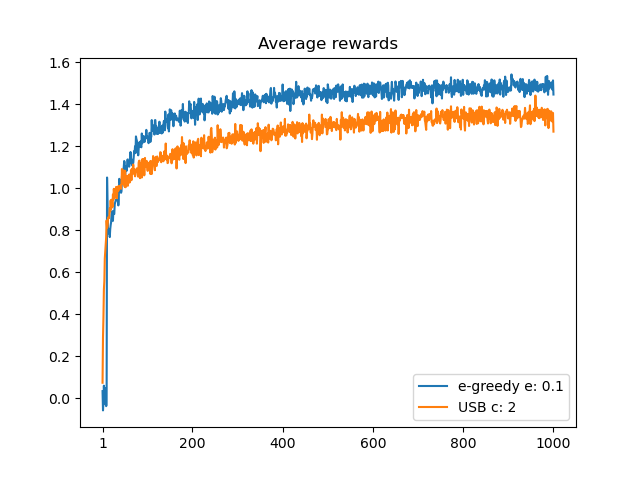
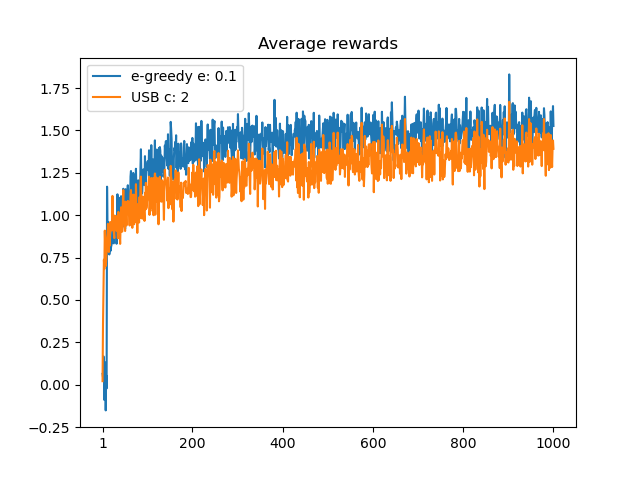
Add figure_2.6_bandit_param_study.py

diff --git a/algos/gradient_bandit.py b/algos/gradient_bandit.py
@@ -1,0 +1,70 @@
+"""
+Page 37. Not using baselines or using too big alpha results in a crash,
+so we have to use "self.H - np.max(self.H)" instead of "self.H" in GradientBandit.softmax().
+The explanation is here: https://www.datahubbs.com/multi-armed-bandits-reinforcement-learning-2/
+in (Softmax Nuance).
+"""
+
+import numpy as np
+
+
+class GradientBandit:
+    def __init__(self, env, alpha=0.1):
+        self.env = env
+        self.alpha = alpha
+        self.H = np.zeros(len(env.action_space))
+        self.softmax()
+
+    def softmax(self):
+        # Here, we had to use "self.H - np.max(self.H)" instead of "self.H" because otherwise we get crashes when
+        # not using baselines of having too big alpha.
+        self.pi = np.exp(self.H - np.max(self.H)) / np.sum(np.exp(self.H - np.max(self.H)))
+
+    def act(self, step):
+        # Choosing randomly according to a prob distro
+        return np.random.choice(self.env.action_space, p=self.pi)
+
+    def learn(self, **kwargs):
+        action = kwargs['action']
+        reward = kwargs['reward']
+        avg_ep_reward = kwargs['avg_ep_reward']
+        self.H[action] += self.alpha * (reward - avg_ep_reward) * self.pi[action]
+        for a in self.env.action_space:
+            if a != action:
+                self.H[a] -= self.alpha * (reward - avg_ep_reward) * (1 - self.pi[a])
+        self.softmax()
+
+
+def exe():
+    from matplotlib import pyplot as plt
+
+    from envs.k_armed_bandit_env import KArmedBanditEnv
+
+    EPISODES = 2000
+    STEPS = 1000
+
+    avg_rewards = np.zeros(STEPS)
+    env = KArmedBanditEnv()
+    for episode in range(1, EPISODES+1):
+        agent = GradientBandit(env, 4)
+        rewards = []
+        avg_ep_reward = 0
+        for step in range(1, STEPS+1):
+            action = agent.act(step)
+            reward = env.step(action)
+            avg_ep_reward += (reward - avg_ep_reward) / step
+            agent.learn(action=action, reward=reward, avg_ep_reward=avg_ep_reward)
+            rewards.append(reward)
+        for i in range(STEPS):
+            avg_rewards[i] += (rewards[i] - avg_rewards[i]) / episode
+
+        env.reset()
+    plt.plot(avg_rewards)
+    plt.xlabel('Steps')
+    plt.ylabel(f'Average rewards per {EPISODES} episodes')
+    # plt.savefig('gradient_bandit.png')
+    plt.show()
+
+
+if __name__ == '__main__':
+    exe()

diff --git a/figures/figure_2.6_bandit_param_study.py b/figures/figure_2.6_bandit_param_study.py
@@ -1,0 +1,60 @@
+""" Page 42. """
+
+from multiprocessing import Pool
+from matplotlib import pyplot as plt
+
+from envs.k_armed_bandit_env import KArmedBanditEnv
+from algos.epsilon_bandit import EpsilonBandit
+from algos.optimistic_bandit import OptimisticBandit
+from algos.UCB_bandit import UCBBandit
+from algos.gradient_bandit import GradientBandit
+
+
+STEPS = 1000
+EPISODES = 200
+TICKS = (1/128, 1/64, 1/32, 1/16, 1/8, 1/4, 1/2, 1, 2, 4)
+EPSILON_BANDIT_PARAMS = (1/128, 1/64, 1/32, 1/16, 1/8, 1/4)
+EPSILON_BANDIT = (EpsilonBandit, EPSILON_BANDIT_PARAMS)
+OPTIMISTIC_PARAMS = (1/4, 1/2, 1, 2, 4)
+OPTIMISTIC = (OptimisticBandit, OPTIMISTIC_PARAMS)
+UCB_PARAMS = (1/16, 1/8, 1/4, 1/2, 1, 2, 4)
+UCB = (UCBBandit, UCB_PARAMS)
+GRADIENT_PARAMS = (1/32, 1/16, 1/8, 1/4, 1/2, 1, 2, 4)
+GRADIENT = (GradientBandit, GRADIENT_PARAMS)
+INPUT = [EPSILON_BANDIT, OPTIMISTIC, UCB, GRADIENT]
+
+
+def exe(input):
+    agent_class, params = input
+    avg_rewards = []
+    for param in params:
+        avg_reward = 0
+        for episode in range(1, EPISODES+1):
+            env = KArmedBanditEnv()
+            agent = agent_class(env, param)
+            avg_ep_reward = 0
+            for step in range(1, STEPS+1):
+                action = agent.act(step)
+                reward = env.step(action)
+                avg_ep_reward += (reward - avg_ep_reward) / step
+                agent.learn(action=action, reward=reward, avg_ep_reward=avg_ep_reward)
+            avg_reward += (avg_ep_reward - avg_reward) / episode
+        avg_rewards.append(avg_reward)
+        print(f'{agent_class} param: {param} done')
+    return avg_rewards
+
+
+with Pool() as pool:
+    avg_rewards = pool.map(exe, INPUT)
+    plt.plot(EPSILON_BANDIT_PARAMS, avg_rewards[0], label='epsilon bandit: epsilon')
+    plt.plot(OPTIMISTIC_PARAMS, avg_rewards[1], label='optimistic: initial')
+    plt.plot(UCB_PARAMS, avg_rewards[2], label='UCB: c')
+    plt.plot(GRADIENT_PARAMS, avg_rewards[3], label='gradient: alpha')
+    plt.xscale("log")
+    plt.legend()
+    plt.title('Bandit algorithms parameter study')
+    plt.ylabel(f'Average reward over {STEPS} steps')
+    plt.xticks(TICKS, ('1/128', '1/64', '1/32', '1/16', '1/8', '1/4', '1/2', '1', '2', '4'))
+    plt.savefig('figure_2.6_bandit_param_study.png')
+    plt.show()
+    # plt.show()

diff --git a/algos/optimistic_bandit.py b/algos/optimistic_bandit.py
@@ -6,15 +6,13 @@ import math
 
 
 class OptimisticBandit:
-    def __init__(self, env=None, epsilon=0.1, initial=0, alpha=0.1):
+    def __init__(self, env=None, initial=5, epsilon=0.1, alpha=0.1):
         self.env = env
         self.epsilon = epsilon
         self.initial = initial
         self.alpha = alpha
-        try:
+        if env:
             self.Q = [initial] * len(env.action_space)
-        except AttributeError:
-            pass
 
     def assign_env(self, env):
         self.env = env
@@ -34,7 +32,9 @@ class OptimisticBandit:
             action = max_action
         return action
 
-    def learn(self, action, reward):
+    def learn(self, **kwargs):
+        action = kwargs['action']
+        reward = kwargs['reward']
         self.Q[action] += self.alpha * (reward - self.Q[action])
 
 
@@ -42,7 +42,7 @@ def exe():
     from matplotlib import pyplot as plt
     import numpy as np
 
-    from environments.k_armed_bandit_env import KArmedBanditEnv
+    from envs.k_armed_bandit_env import KArmedBanditEnv
 
     STEPS = 1000
     EPISODES = 2000
@@ -54,12 +54,12 @@ def exe():
     avg_rewards = np.zeros(STEPS)
     for episode in range(1, EPISODES+1):
         ENV.reset()
-        agent = OptimisticBandit(ENV, EPSILON, INITIAL, ALPHA)
+        agent = OptimisticBandit(ENV, INITIAL, EPSILON, ALPHA)
         rewards = []
         for step in range(1, STEPS+1):
             action = agent.act(step)
             reward = ENV.step(action)
-            agent.learn(action, reward)
+            agent.learn(action=action, reward=reward)
             rewards.append(reward)
         for i in range(STEPS):
             avg_rewards[i] += (rewards[i] - avg_rewards[i]) / episode

diff --git a/algos/epsilon_bandit.py b/algos/epsilon_bandit.py
@@ -6,14 +6,14 @@ import math
 import numpy as np
 
 
-class SimpleBandit:
+class EpsilonBandit:
     def __init__(self, env=None, epsilon=0.1):
         self.env = env
         self.epsilon = epsilon
         self.Q = np.zeros(len(env.action_space))
         self.uses = np.zeros(len(env.action_space))
 
-    def act(self):
+    def act(self, step):
         if random.random() <= self.epsilon:
             action = random.choice(self.env.action_space)
         else:
@@ -28,29 +28,31 @@ class SimpleBandit:
         self.uses[action] += 1
         return action
 
-    def learn(self, action, reward):
+    def learn(self, **kwargs):
+        action = kwargs['action']
+        reward = kwargs['reward']
         self.Q[action] += (reward - self.Q[action]) / self.uses[action]
 
 
 def exe():
     from matplotlib import pyplot as plt
 
-    from environments.k_armed_bandit_env import KArmedBanditEnv
+    from envs.k_armed_bandit_env import KArmedBanditEnv
 
     STEPS = 1000
-    EPISODES = 2000
+    EPISODES = 200
     EPSILON = 0.1
     ENV = KArmedBanditEnv()
 
     avg_rewards = np.zeros(STEPS)
     for episode in range(1, EPISODES+1):
         ENV.reset()
-        agent = SimpleBandit(ENV, EPSILON)
+        agent = EpsilonBandit(ENV, EPSILON)
         rewards = []
-        for _ in range(1, STEPS+1):
-            action = agent.act()
+        for step in range(1, STEPS+1):
+            action = agent.act(step)
             reward = ENV.step(action)
-            agent.learn(action, reward)
+            agent.learn(action=action, reward=reward)
             rewards.append(reward)
         for i in range(STEPS):
             avg_rewards[i] += (rewards[i] - avg_rewards[i]) / episode

diff --git a/figures/figure_2.3_optimistic_bandits.py b/figures/figure_2.3_optimistic_bandits.py
@@ -7,15 +7,15 @@ import numpy as np
 from matplotlib import pyplot as plt
 import matplotlib.ticker as mtick
 
-from environments.k_armed_bandit_env import KArmedBanditEnv
-from algorithms.optimistic_bandit import OptimisticBandit
+from envs.k_armed_bandit_env import KArmedBanditEnv
+from algos.optimistic_bandit import OptimisticBandit
 
 
-def exe(epsilon, initial):
+def exe(initial, epsilon):
     avg_perc_opt_actions = np.zeros(STEPS)
     for episode in range(1, EPISODES + 1):
         env = KArmedBanditEnv()
-        player = OptimisticBandit(env, epsilon, initial)
+        player = OptimisticBandit(env, initial, epsilon)
         optimal_actions_bool = []
         for _ in range(1, STEPS+1):
             action = player.act()
@@ -28,8 +28,8 @@ def exe(epsilon, initial):
 
 STEPS = 1000
 EPISODES = 2000
-EPSILONS = (0.1, 0)
 INITIALS = (0, 5)
+EPSILONS = (0.1, 0)
 
 with Pool() as pool:
     avg_perc_opt_actions = pool.starmap(exe, [(0.1, 0), (0, 5)])

diff --git a/algos/UCB_bandit.py b/algos/UCB_bandit.py
@@ -7,11 +7,9 @@ class UCBBandit:
     def __init__(self, env=None, c=2):
         self.env = env
         self.c = c
-        try:
+        if env:
             self.Q = [0] * len(env.action_space)
             self.uses = [0] * len(env.action_space)
-        except AttributeError:
-            pass
 
     def assign_env(self, env):
         self.env = env
@@ -33,7 +31,9 @@ class UCBBandit:
         self.uses[max_action] += 1
         return max_action
 
-    def learn(self, action, reward):
+    def learn(self, **kwargs):
+        action = kwargs['action']
+        reward = kwargs['reward']
         self.Q[action] += (reward - self.Q[action]) / self.uses[action]
 
 
@@ -41,7 +41,7 @@ def exe():
     from matplotlib import pyplot as plt
     import numpy as np
 
-    from environments.k_armed_bandit_env import KArmedBanditEnv
+    from envs.k_armed_bandit_env import KArmedBanditEnv
 
     STEPS = 1000
     EPISODES = 2000

diff --git a/figures/figure_2.2_epsilon_bandits.py b/figures/figure_2.2_epsilon_bandits.py
@@ -6,8 +6,8 @@ import numpy as np
 from matplotlib import pyplot as plt
 import matplotlib.ticker as mtick
 
-from environments.k_armed_bandit_env import KArmedBanditEnv
-from algorithms.simple_bandit import SimpleBandit
+from envs.k_armed_bandit_env import KArmedBanditEnv
+from algos.epsilon_bandit import EpsilonBandit
 
 
 STEPS = 1000
@@ -19,7 +19,7 @@ def exe(epsilon):
     avg_perc_opt_actions = np.zeros(STEPS)
     for episode in range(1, EPISODES + 1):
         env = KArmedBanditEnv()
-        agent = SimpleBandit(env, epsilon)
+        agent = EpsilonBandit(env, epsilon)
         rewards = []
         optimal_actions_bool = []
         for _ in range(1, STEPS+1):

diff --git a/figures/figure_2.4_bandits_USB_vs_epsilon.py b/figures/figure_2.4_bandits_USB_vs_epsilon.py
@@ -3,9 +3,9 @@
 from multiprocessing import Pool
 from matplotlib import pyplot as plt
 
-from environments.k_armed_bandit_env import KArmedBanditEnv
-from algorithms.optimistic_bandit import OptimisticBandit
-from algorithms.UCB_bandit import UCBBandit
+from envs.k_armed_bandit_env import KArmedBanditEnv
+from algos.optimistic_bandit import OptimisticBandit
+from algos.UCB_bandit import UCBBandit
 import numpy as np
 
 

diff --git a/figures/page_132_sarsa_vs_Qlearning.py b/figures/page_132_sarsa_vs_Qlearning.py
@@ -5,9 +5,9 @@
 import numpy as np
 import matplotlib.pyplot as plt
 
-from environments.cliff_walking import CliffWalking
-from algorithms.sarsa import Sarsa
-from algorithms.Qlearning import QLearning
+from envs.cliff_walking import CliffWalking
+from algos.sarsa import Sarsa
+from algos.Qlearning import QLearning
 
 
 RUNS = 100

diff --git a/algos/Qlearning.py b/algos/Qlearning.py
@@ -39,7 +39,7 @@ class QLearning:
 
 
 def exe():
-    from environments.windy_gridworld import WindyGridworld
+    from envs.windy_gridworld import WindyGridworld
 
     ENV = WindyGridworld()
     EPISODES = 100

diff --git a/algos/n_step_sarsa.py b/algos/n_step_sarsa.py
@@ -30,7 +30,7 @@ class Sarsa:
 
 
 def exe():
-    from environments.windy_gridworld import WindyGridworld
+    from envs.windy_gridworld import WindyGridworld
 
     ENV = WindyGridworld()
     EPISODES = 100

diff --git a/algos/sarsa.py b/algos/sarsa.py
@@ -35,7 +35,7 @@ class Sarsa:
 
 
 def exe():
-    from environments.windy_gridworld import WindyGridworld
+    from envs.windy_gridworld import WindyGridworld
 
     ENV = WindyGridworld()
     EPISODES = 200
